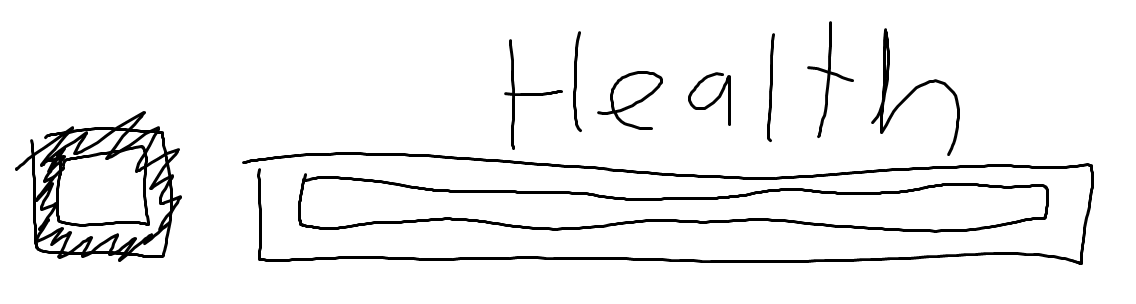
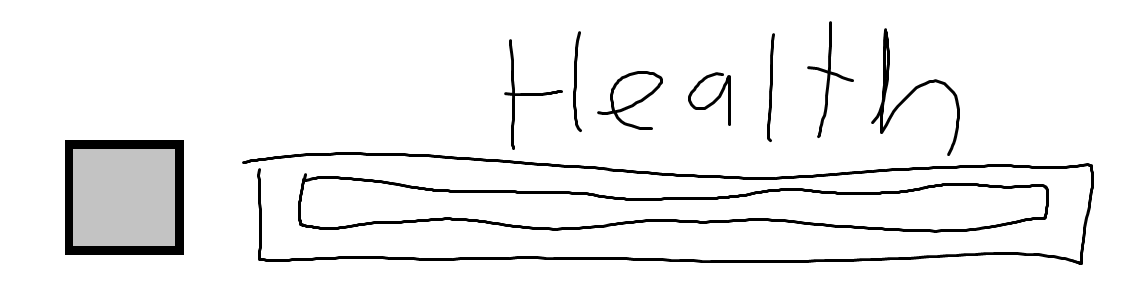
Added changing health for boss

Changed region(s): [[0.0, 0.3849, 0.1849, 0.8586]]

diff --git a/core/src/com/mygdx/game/TopRoom.java b/core/src/com/mygdx/game/TopRoom.java
@@ -17,7 +17,7 @@ public class TopRoom implements Screen {
 
     //These fields create the Objects
     //In order of rendering
-    private RedHealth redHealth;
+    private RedHealth[] redHealth;
     private CharacterHealth characterHealthclass;
     private BossHealth bossHealthclass;
     private Laser[] laser;
@@ -40,7 +40,7 @@ public class TopRoom implements Screen {
     //These fields are normal fields
     private int canshootlaser = 0;
     private int characterhealth = 13;
-    private int bosshealth = 100;
+    private int bosshealth = 96;
     private boolean characterinvincible = false;
     private int invinciblecounter;
     private boolean bossdeathplayonce;
@@ -48,6 +48,7 @@ public class TopRoom implements Screen {
     private boolean wongame = false;
     private int bosscheckcounter;
     private boolean userandombossvelocity = true;
+    private int laservelocity = 40;
 
     TopRoom(MyGdxGame game) {
         //These set up the world
@@ -57,7 +58,10 @@ public class TopRoom implements Screen {
         viewport = new FitViewport(MyGdxGame.SCREEN_WIDTH, MyGdxGame.SCREEN_HEIGHT, camera);
 
         //These construct the game (in order of rendering)
-        redHealth = new RedHealth(game.batch);
+        redHealth = new RedHealth[2];
+        redHealth[0] = new RedHealth(game.batch, 0, 757-40);
+        redHealth[1] = new RedHealth(game.batch, MyGdxGame.SCREEN_WIDTH-BossHealth.constantwidth, 757-90);
+
         characterHealthclass = new CharacterHealth(game.batch);
         bossHealthclass = new BossHealth(game.batch);
         laser = new Laser[3];
@@ -87,7 +91,9 @@ public class TopRoom implements Screen {
 
 
         game.batch.begin();
-        redHealth.render();
+        for(int i = 0; i<= redHealth.length-1;i++) {
+            redHealth[i].render();
+        }
         characterHealthclass.render();
         bossHealthclass.render();
 
@@ -150,7 +156,9 @@ public class TopRoom implements Screen {
         if(!SpacetoShoot.renderspacetoshoot) {
 
             //These update the game based on the classes
-            redHealth.update();
+            for(int i = 0; i<= redHealth.length-1;i++) {
+                redHealth[i].update();
+            }
             for(int i = 0; i <=laser.length-1; i++) {
                 laser[i].update();
             }
@@ -163,21 +171,21 @@ public class TopRoom implements Screen {
                     shootlaser.play(0.2f);
                     laser[0].posx = character.posx + character.width;
                     laser[0].posy = character.posy + character.width / 2;
-                    laser[0].velx = 20;
+                    laser[0].velx = laservelocity;
                     canshootlaser++;
                 }
                 else if (laser[1].posx >= MyGdxGame.SCREEN_WIDTH && canshootlaser == 1) {
                     shootlaser.play(0.2f);
                     laser[1].posx = character.posx + character.width;
                     laser[1].posy = character.posy + character.width / 2;
-                    laser[1].velx = 20;
+                    laser[1].velx = laservelocity;
                     canshootlaser++;
                 }
                 else if (laser[2].posx >= MyGdxGame.SCREEN_WIDTH && canshootlaser == 2){
                     shootlaser.play(0.2f);
                     laser[2].posx = character.posx + character.width;
                     laser[2].posy = character.posy + character.width / 2;
-                    laser[2].velx = 20;
+                    laser[2].velx = laservelocity;
                     canshootlaser = 0;
                 }
             }
@@ -219,7 +227,7 @@ public class TopRoom implements Screen {
                     //characterhurt.play(0.7f);
                     characterhealth--;
                     characterinvincible = true;
-                    redHealth.width-=40;
+                    redHealth[0].width -= 40;
                 }
             }
 
@@ -246,6 +254,7 @@ public class TopRoom implements Screen {
                         boss.vely--;
                     }
                     bosshealth--;
+                    redHealth[1].width -= 8;
                 }
             }
 

diff --git a/core/src/com/mygdx/game/BossHealth.java b/core/src/com/mygdx/game/BossHealth.java
@@ -5,13 +5,13 @@ import com.badlogic.gdx.graphics.g2d.SpriteBatch;
 
 public class BossHealth extends AbstractImage {
 
-    private static int constantwidth = 757;
+    static int constantwidth = 757;
     private static int constantheight = 203;
 
     public BossHealth(SpriteBatch batch) {
         super(
                 batch,
-                new Texture("BossHealthImage.png"),
+                new Texture("Bosshealth.png"),
                 MyGdxGame.SCREEN_WIDTH-constantwidth,
                 MyGdxGame.SCREEN_HEIGHT-constantheight,
                 constantwidth,

diff --git a/core/src/com/mygdx/game/RedHealth.java b/core/src/com/mygdx/game/RedHealth.java
@@ -7,12 +7,12 @@ public class RedHealth extends AbstractImage {
 
     private static int constantheight = 203;
 
-    RedHealth(SpriteBatch batch){
+    RedHealth(SpriteBatch batch, int posx, int width){
         super(batch,
                 new Texture("Health.png"),
-                0,
+                posx,
                 MyGdxGame.SCREEN_HEIGHT - constantheight,
-                757-40,
+                width,
                 constantheight,
                 0,
                 0
